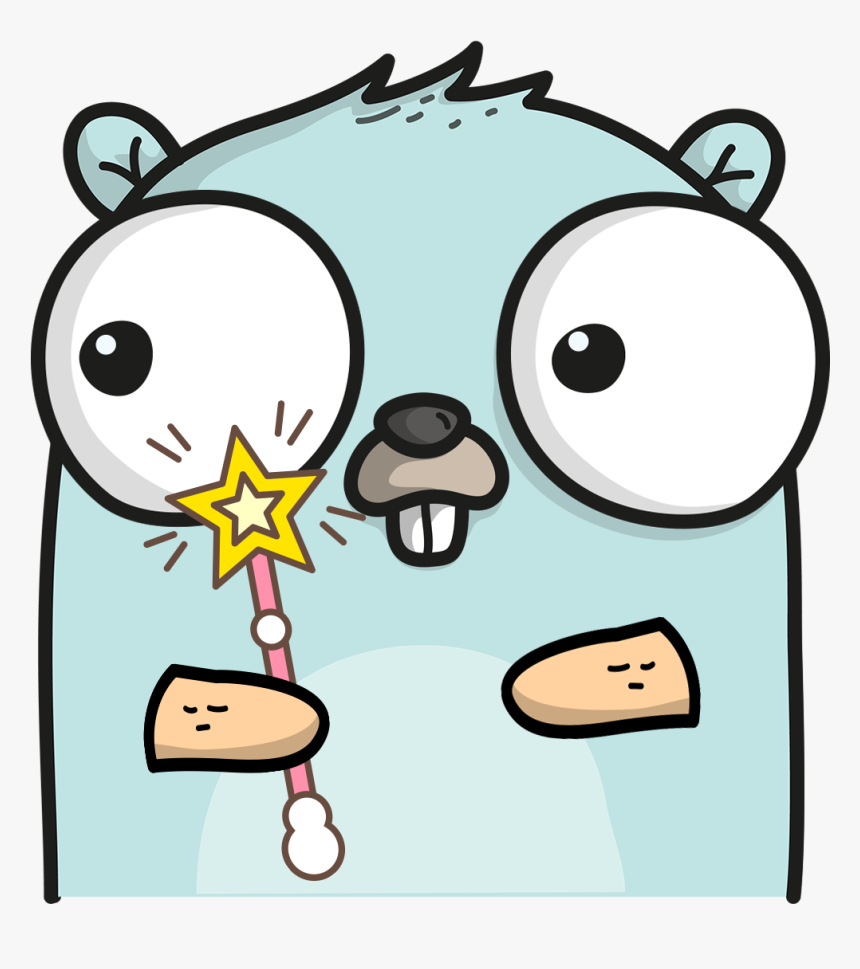
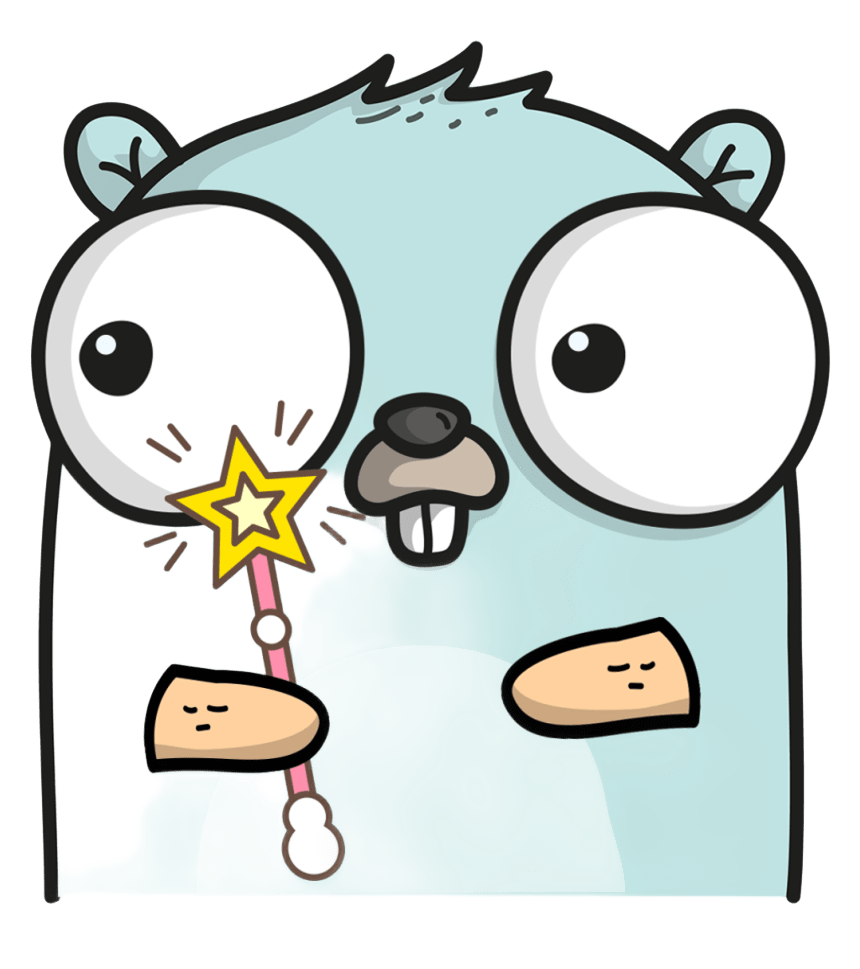
orm operate in imola and resize gopher log

Changed region(s): [[0.0605, 0.4644, 0.5744, 0.9288]]

diff --git a/README.md b/README.md
@@ -1,10 +1,10 @@
 # imola
 <p align="center">
-<img align="center" width="168px" src="doc/imgs/424_cartoons-gophers.png">
+    <img align="center" width="138px" src="doc/imgs/424_cartoons-gophers.png">
 </p>
 
-imola是《go实战训练营》学习过程中写的代码，主要包括：`server`路由注册、`orm`中SQL生成与事务操作、分布式缓存和`go`微服务这4部分，具体功能实现有：手工写`web`路由树，自己实现`orm`生成复杂查询的`sql`，此外，使用`grpc`和`etcd`结合实现服务注册与发现，收获比较多，对后续学习`go`相应框架如`gin`、`gorm`和`gozero`等时有指导性意义。
-## 🤷 在项目中引入imola
+《`go`实战训练营》学习过程中写的代码，主要包括：`server`路由注册、`orm`中SQL生成与事务操作、分布式缓存和`go`微服务这4部分，具体功能实现有：手工写`web`路由树，自己实现`orm`生成复杂查询的`sql`，此外，使用`grpc`和`etcd`结合实现服务注册与发现，收获比较多，对后续学习`go`相应框架如`gin`、`gorm`和`gozero`等时有指导性意义。
+### 🤷 `web`注册路由
 ```go
 import (
     "imola/web"
@@ -24,4 +24,36 @@ func main() {
 ```shell
 % curl 'http://localhost:8081/user/123'
 {"name":"Tom"}% 
+```
+
+### 操作数据库
+`orm`支持`native sql`，也支持基于对象进行操作，类似于`hibernate`
+```go
+import (
+    "context"
+    "database/sql"
+    _ "github.com/mattn/go-sqlite3"
+    "github.com/stretchr/testify/require"
+    "log"
+    "testing"
+    "time"
+)
+
+func main() {
+    db, err := sql.Open("sqlite3", "file:test.db?cache=shared&mode=memory")
+    require.NoError(t, err)
+    defer db.Close()
+
+    ctx, cancel := context.WithTimeout(context.Background(), time.Second*10)
+    // 操作原生sql
+	res, err := db.ExecContext(ctx, "INSERT INTO `test_model` VALUES(?, ?, ?, ?)", 1, "Tom", 18, "Jerry")
+    require.NoError(t, err)
+
+    // 执行查询语句
+    row := db.QueryRowContext(ctx,
+    "select id, first_name, age, last_name from `test_model` where id = ?", 1)
+    require.NoError(t, row.Err())
+    tm := TestModel{}
+    err = row.Scan(&tm.Id, &tm.FirstName, &tm.Age, &tm.LastName)
+}
 ```
